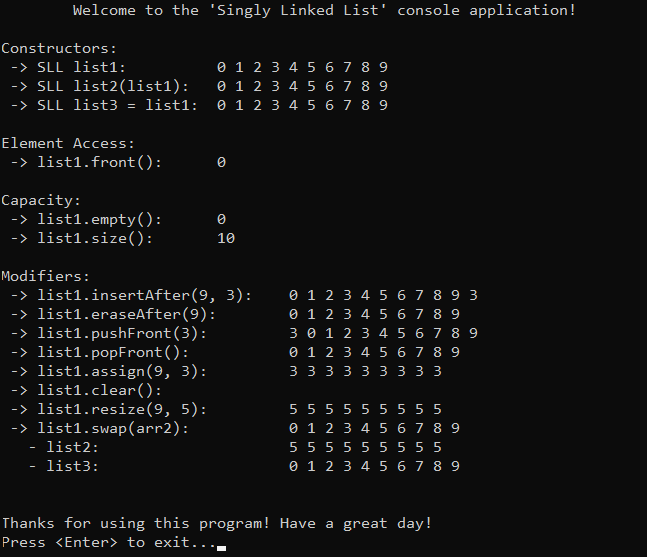
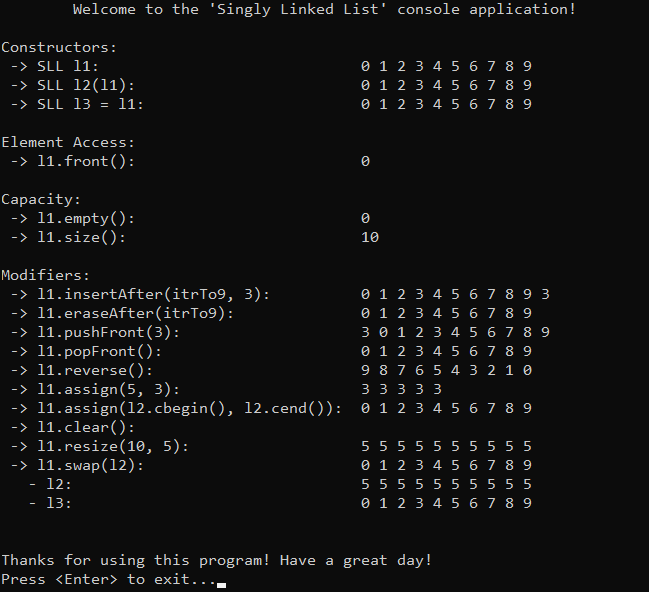
Add 'SLL': reverse(), itr-based fcns and corresponding changes.

diff --git a/DataStructures/LinkedList/SinglyLinkedList/Source/SinglyLinkedList.cpp b/DataStructures/LinkedList/SinglyLinkedList/Source/SinglyLinkedList.cpp
@@ -35,7 +35,7 @@ SLL::SLL(int size, int data)
 }
 
 // Initializes list with data by deep copying it from another one
-SLL::SLL(const SLL& src) 
+SLL::SLL(const SLL& src)
 	: _size(src._size) {
 	// Case: empty container
 	if (src._head == nullptr) {
@@ -49,7 +49,7 @@ SLL::SLL(const SLL& src)
 	// Copy rest of nodes
 	Node* currSrc = src._head->_next;
 	Node* current = _head;
-	for ( ; currSrc; ) {
+	for (; currSrc; ) {
 		current->_next = new Node(currSrc->_data);
 		current = current->_next;
 		currSrc = currSrc->_next;
@@ -61,7 +61,7 @@ SLL& SLL::operator=(const SLL& rhs) {
 	// Prepare: check for self-assignment and deallocate any old memory
 	if (this == &rhs) { return *this; }
 	clear();
-	
+
 	// Set corresponding size
 	_size = rhs._size;
 
@@ -95,16 +95,16 @@ SLL::~SLL() { clear(); }
 // -----------
 
 // Returns an iterator to the first element of the list
- SLL::Iterator SLL::begin() { return iterator(_head); }
+SLL::Iterator SLL::begin() { return iterator(_head); }
 
- // Returns an iterator to one past the last element of the list
- SLL::Iterator SLL::end() { return iterator(nullptr); }
+// Returns an iterator to one past the last element of the list
+SLL::Iterator SLL::end() { return iterator(nullptr); }
 
- // Returns a const iterator to the first element of the list
- SLL::ConstIterator SLL::cbegin() const { return const_iterator(_head); }
+// Returns a const iterator to the first element of the list
+SLL::ConstIterator SLL::cbegin() const { return const_iterator(_head); }
 
- // Returns a const iterator to one past the last element of the list
- SLL::ConstIterator SLL::cend() const { return const_iterator(nullptr); }
+// Returns a const iterator to one past the last element of the list
+SLL::ConstIterator SLL::cend() const { return const_iterator(nullptr); }
 
 
 
@@ -135,13 +135,15 @@ int SLL::size() const { return _size; }
 // -----------
 
 // Inserts a new node with given data after the specified position
-void SLL::insertAfter(const int pos, const int& data) {
+void SLL::insertAfter(iterator pos, const int& data) {
+	// Case: wrong iterator
+	if (pos == this->end()) { return; }
+
 	// Create a new node with the given data
 	Node* newNode = new Node(data);
 
-	// Find the node at the specified index
-	Node* curr = _head;
-	for (int i = 0; i < pos; ++i) { curr = curr->_next; }
+	// Get the given node
+	Node* curr = pos.operator->();
 
 	// Insert the new node after the current one
 	newNode->_next = curr->_next;
@@ -152,13 +154,15 @@ void SLL::insertAfter(const int pos, const int& data) {
 }
 
 // Removes the node after the specified position
-void SLL::eraseAfter(const int pos) {
-	// Traverse to the node before the node to be erased
-	Node* curr = _head;
-	for (int i = 0; i < pos; ++i) { curr = curr->_next; }
+void SLL::eraseAfter(iterator pos) {
+	// Case: wrong iterator
+	if (pos == this->end()) { return; }
 
-	// Remove node (if there is such)
-	if (curr != nullptr && curr->_next != nullptr) {
+	// Get the given node
+	Node* curr = pos.operator->();
+
+	// Remove node (if there is one after the current)
+	if (curr && curr->_next) {
 		Node* nodeToDelete = curr->_next;
 		curr->_next = nodeToDelete->_next;
 		delete nodeToDelete;
@@ -167,6 +171,7 @@ void SLL::eraseAfter(const int pos) {
 	// Reflect removed element on size
 	--_size;
 }
+
 
 // Adds a new node with the given data at the front of the list
 void SLL::pushFront(const int& data) {
@@ -200,15 +205,54 @@ void SLL::popFront() {
 	--_size;
 }
 
+// Reverses the order of the elements in the container
+void SLL::reverse() {
+	// Preliminaries
+	Node* prev = nullptr;
+	Node* curr = _head;
+	Node* next = nullptr;
+
+	for (; curr; ) {
+		// Store the next node
+		next = curr->_next;
+
+		// Reverse the current node's pointer
+		curr->_next = prev;
+
+		// Move pointers one position ahead
+		prev = curr;
+		curr = next;
+	}
+
+	// Update the head to point to the new front of the list
+	_head = prev;
+}
+
 // Assigns the specified data to all elements
 void SLL::assign(int size, const int& data) {
-	// Clear the existing list
+	// Clear the existing contents
 	clear();
 
 	// Add 'size' nodes with 'data'
 	for (int i = 0; i < size; ++i) {
 		pushFront(data);
 	}
+
+	// no need for reverse(), since data is the same
+}
+
+// Assigns elements in the range 
+void SLL::assign(const_iterator first, const_iterator last) {
+	// Clear existing contents
+	clear();
+
+	// Add each element from the iterator range
+	for (auto it = first; it != last; ++it) {
+		pushFront(*it);
+	}
+
+	// Reverse the list to preserve the order
+	reverse();
 }
 
 // Clears the list by deallocating all nodes
@@ -241,7 +285,7 @@ void SLL::resize(int size, const int& data) {
 		curr->_next = nullptr; // detach the rest of the list
 
 		// Delete remaining nodes
-		for (; toDelete; ) {  
+		for (; toDelete; ) {
 			Node* temp = toDelete;
 			toDelete = toDelete->_next;
 			delete temp;
@@ -249,7 +293,7 @@ void SLL::resize(int size, const int& data) {
 
 	} else if (size > _size) {
 		// Case 3: new size is greater
-		
+
 		// Traverse to the last node (if list is not empty)
 		Node* curr = _head;
 		if (curr) {
@@ -263,7 +307,8 @@ void SLL::resize(int size, const int& data) {
 			Node* newNode = new Node(data);
 			if (curr) {
 				curr->_next = newNode;
-			} else {
+			}
+			else {
 				_head = newNode;  // for an initially empty list
 			}
 			curr = newNode;

diff --git a/DataStructures/LinkedList/SinglyLinkedList/Source/Main.cpp b/DataStructures/LinkedList/SinglyLinkedList/Source/Main.cpp
@@ -5,6 +5,7 @@
 
 
 #include <iostream>
+#include <forward_list>
 #include "SinglyLinkedList.h"
 
 
@@ -21,59 +22,70 @@ int main() {
 
 	// Constructors
 	std::cout << "Constructors:\n";
-	std::cout << " -> SLL list1:\t\t";
-	SLL list1;
-	for (int i = 9; i >= 0; --i) { list1.pushFront(i); }
-	printList(list1);
-	std::cout << " -> SLL list2(list1):\t";
-	SLL list2(list1);
-	printList(list2);
-	std::cout << " -> SLL list3 = list1:\t";
-	SLL list3 = list1;
-	printList(list3);
+	std::cout << " -> SLL l1:\t\t\t\t";
+	SLL l1;
+	for (int i = 9; i >= 0; --i) { l1.pushFront(i); }
+	printList(l1);
+	std::cout << " -> SLL l2(l1):\t\t\t\t";
+	SLL l2(l1);
+	printList(l2);
+	std::cout << " -> SLL l3 = l1:\t\t\t";
+	SLL l3 = l1;
+	printList(l3);
 	std::cout << std::endl;
+
+	// Helper Iterators
+	SLL::iterator it = l1.begin();
+	SLL::iterator last = it;
+	for (; it != l1.end(); ++it) { last = it; }
 
 	// Element Access
 	std::cout << "Element Access:\n";
-	std::cout << " -> list1.front():\t" << list1.front() << std::endl;
+	std::cout << " -> l1.front():\t\t\t\t" << l1.front() << std::endl;
 	std::cout << std::endl;
 
 	// Capacity
 	std::cout << "Capacity:\n";
-	std::cout << " -> list1.empty():\t" << list1.empty() << std::endl;
-	std::cout << " -> list1.size(): \t" << list1.size() << std::endl;
+	std::cout << " -> l1.empty():\t\t\t\t" << l1.empty() << std::endl;
+	std::cout << " -> l1.size(): \t\t\t\t" << l1.size() << std::endl;
 	std::cout << std::endl;
 
 	// Modifiers
 	std::cout << "Modifiers:\n";
-	std::cout << " -> list1.insertAfter(9, 3): \t";
-	list1.insertAfter(9, 3);
-	printList(list1);
-	std::cout << " -> list1.eraseAfter(9): \t";
-	list1.eraseAfter(9);
-	printList(list1);
-	std::cout << " -> list1.pushFront(3): \t";
-	list1.pushFront(3);
-	printList(list1);
-	std::cout << " -> list1.popFront(): \t\t";
-	list1.popFront();
-	printList(list1);
-	std::cout << " -> list1.assign(9, 3): \t";
-	list1.assign(9, 3);
-	printList(list1);
-	std::cout << " -> list1.clear(): \t\t";
-	list1.clear();
-	printList(list1);
-	std::cout << " -> list1.resize(9, 5): \t";
-	list1.resize(9, 5);
-	printList(list1);
-	std::cout << " -> list1.swap(arr2): \t\t";
-	list1.swap(list2);
-	printList(list1);
-	std::cout << "   - list2:\t\t\t";
-	printList(list2);
-	std::cout << "   - list3:\t\t\t";
-	printList(list3);
+	std::cout << " -> l1.insertAfter(itrTo9, 3):  \t";
+	l1.insertAfter(last, 3);
+	printList(l1);
+	std::cout << " -> l1.eraseAfter(itrTo9): \t\t";
+	l1.eraseAfter(last);
+	printList(l1);
+	std::cout << " -> l1.pushFront(3): \t\t\t";
+	l1.pushFront(3);
+	printList(l1);
+	std::cout << " -> l1.popFront(): \t\t\t";
+	l1.popFront();
+	printList(l1);
+	std::cout << " -> l1.reverse(): \t\t\t";
+	l1.reverse();
+	printList(l1);
+	std::cout << " -> l1.assign(5, 3): \t\t\t";
+	l1.assign(5, 3);
+	printList(l1);
+	std::cout << " -> l1.assign(l2.cbegin(), l2.cend()):  ";
+	l1.assign(l2.cbegin(), l3.cend());
+	printList(l1);
+	std::cout << " -> l1.clear(): \t\t\t";
+	l1.clear();
+	printList(l1);
+	std::cout << " -> l1.resize(10, 5): \t\t\t";
+	l1.resize(10, 5);
+	printList(l1);
+	std::cout << " -> l1.swap(l2): \t\t\t";
+	l1.swap(l2);
+	printList(l1);
+	std::cout << "   - l2:\t\t\t\t";
+	printList(l2);
+	std::cout << "   - l3:\t\t\t\t";
+	printList(l3);
 	std::cout << std::endl;
 
 	// Exit

diff --git a/DataStructures/LinkedList/SinglyLinkedList/Include/SinglyLinkedList.h b/DataStructures/LinkedList/SinglyLinkedList/Include/SinglyLinkedList.h
@@ -53,11 +53,13 @@ public:
 	// -----------
 	//  Modifiers
 	// -----------
-	void insertAfter(const int pos, const int& data);
-	void eraseAfter(const int pos);
+	void insertAfter(iterator pos, const int& data);
+	void eraseAfter(iterator pos);
 	void pushFront(const int& data);
 	void popFront();
+	void reverse();
 	void assign(int size, const int& data);
+	void assign(const_iterator first, const_iterator last);
 	void clear();
 	void resize(int size, const int& data);
 	void swap(SLL& src);
